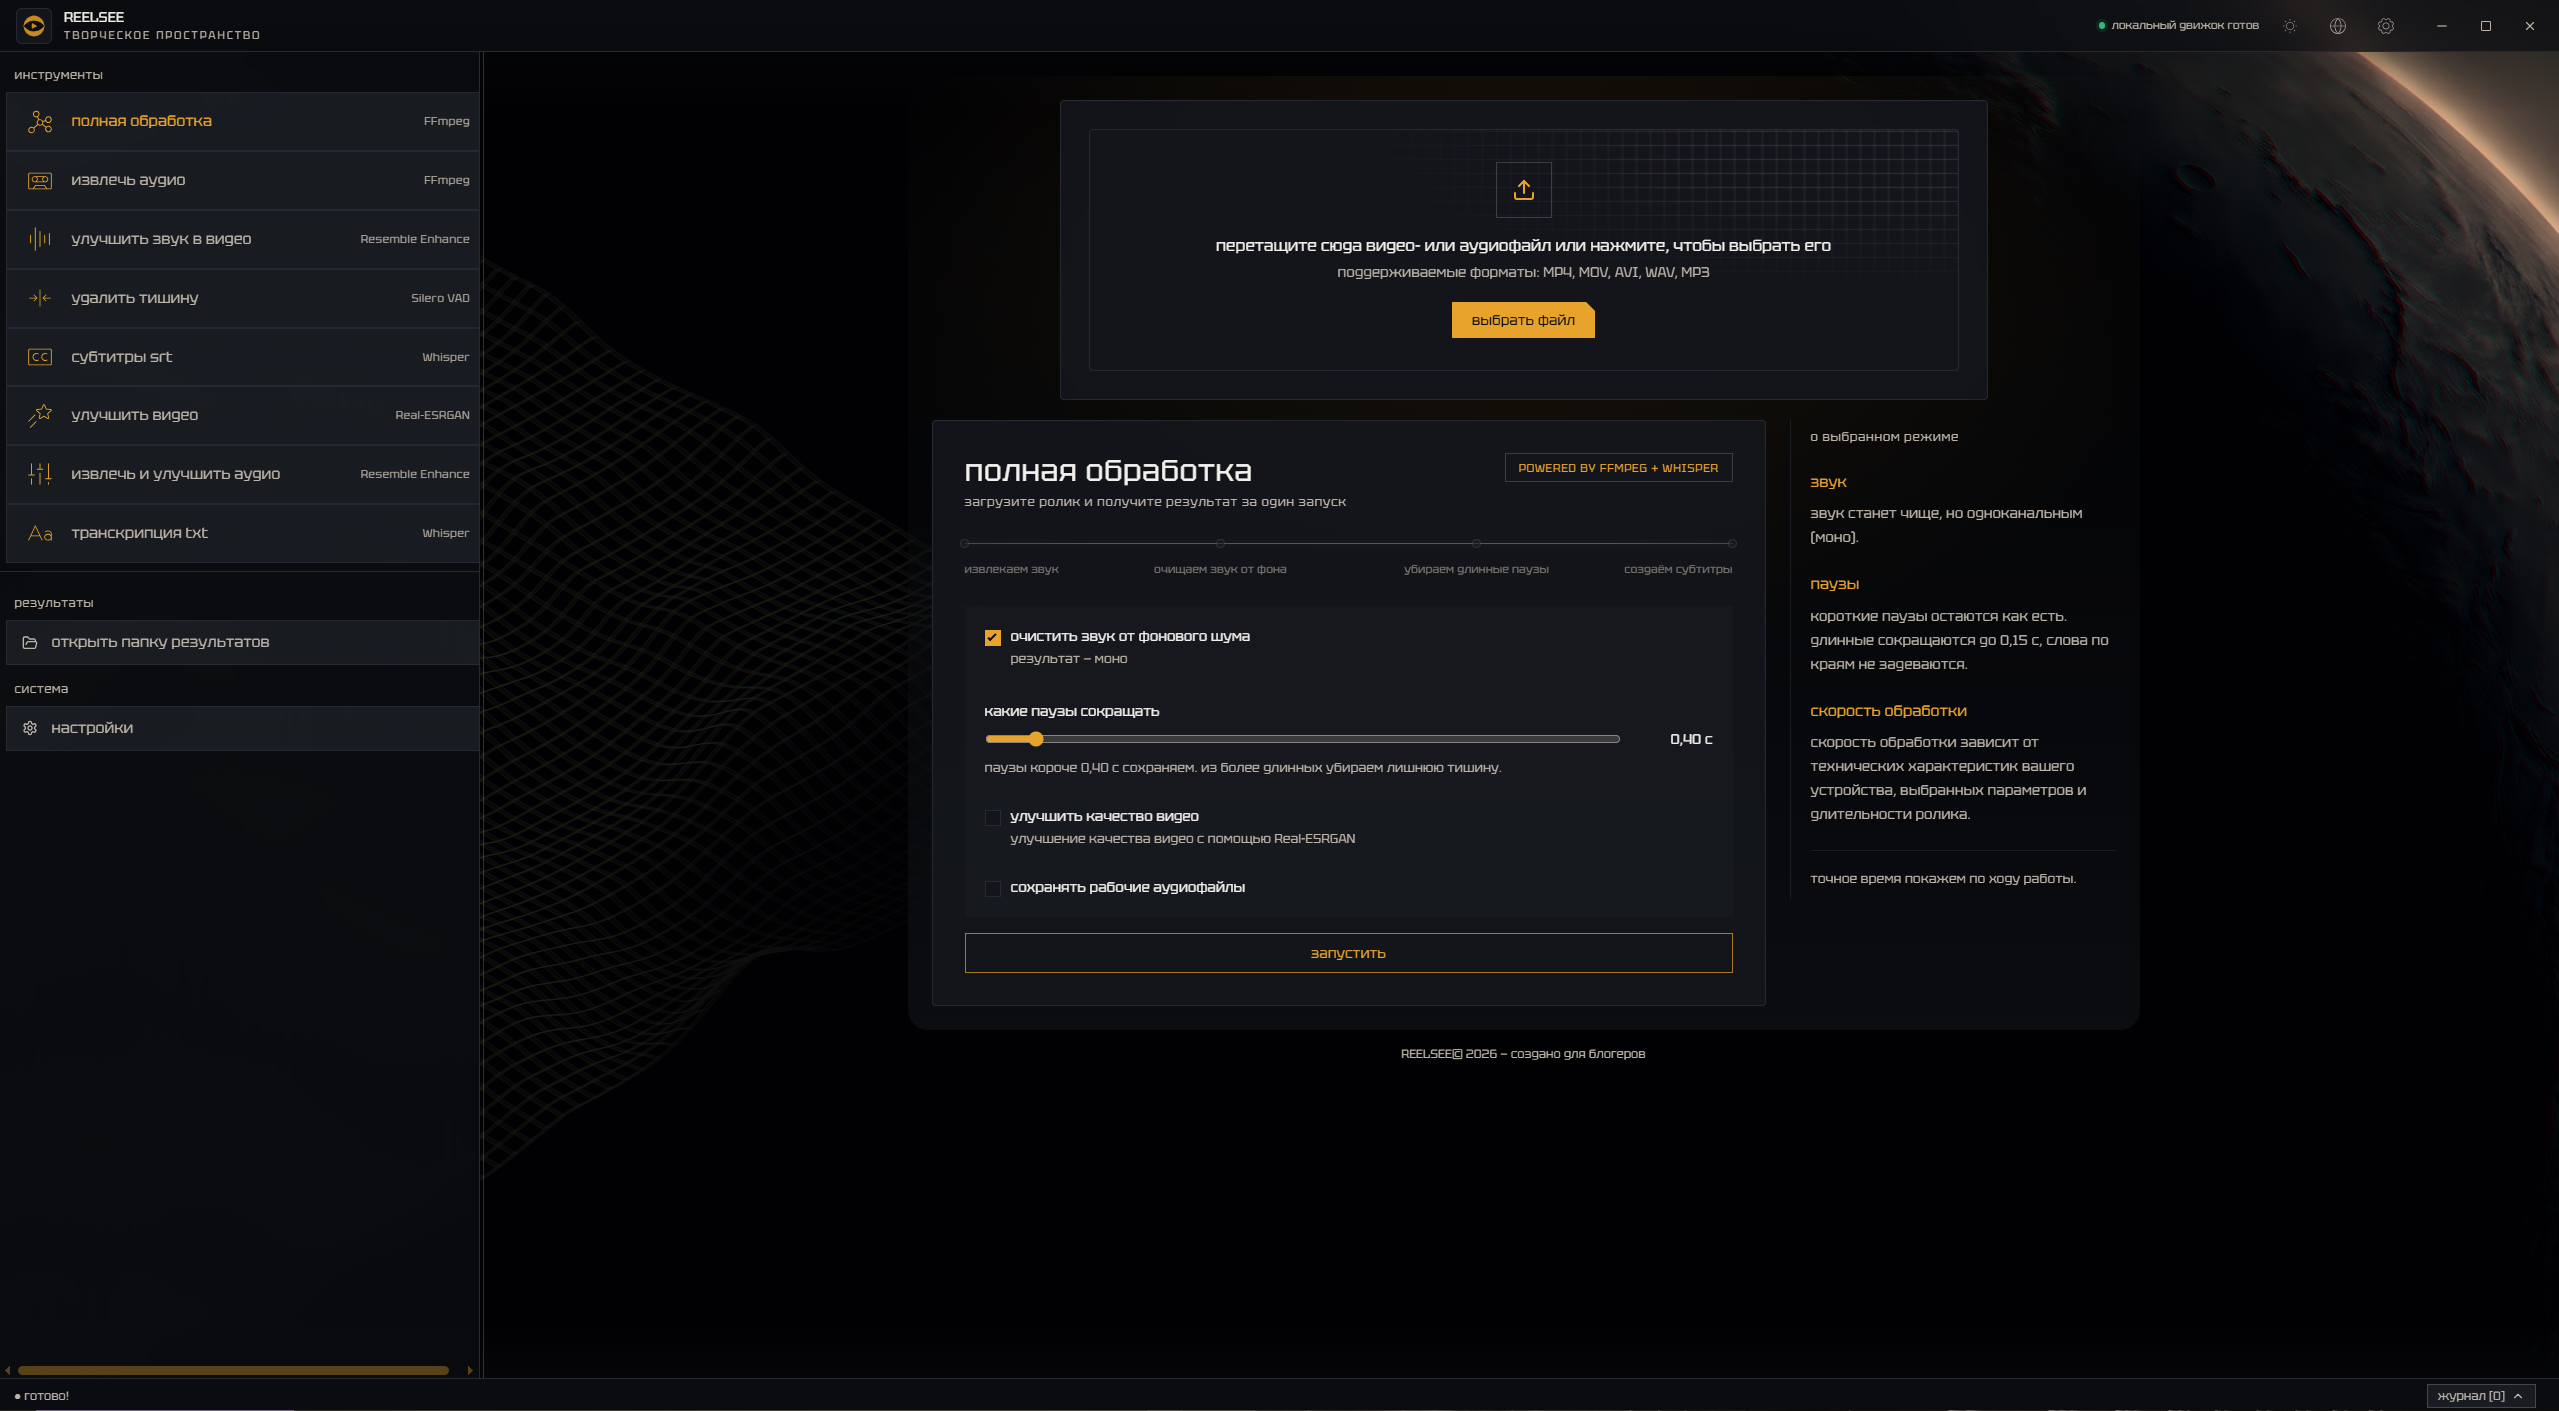
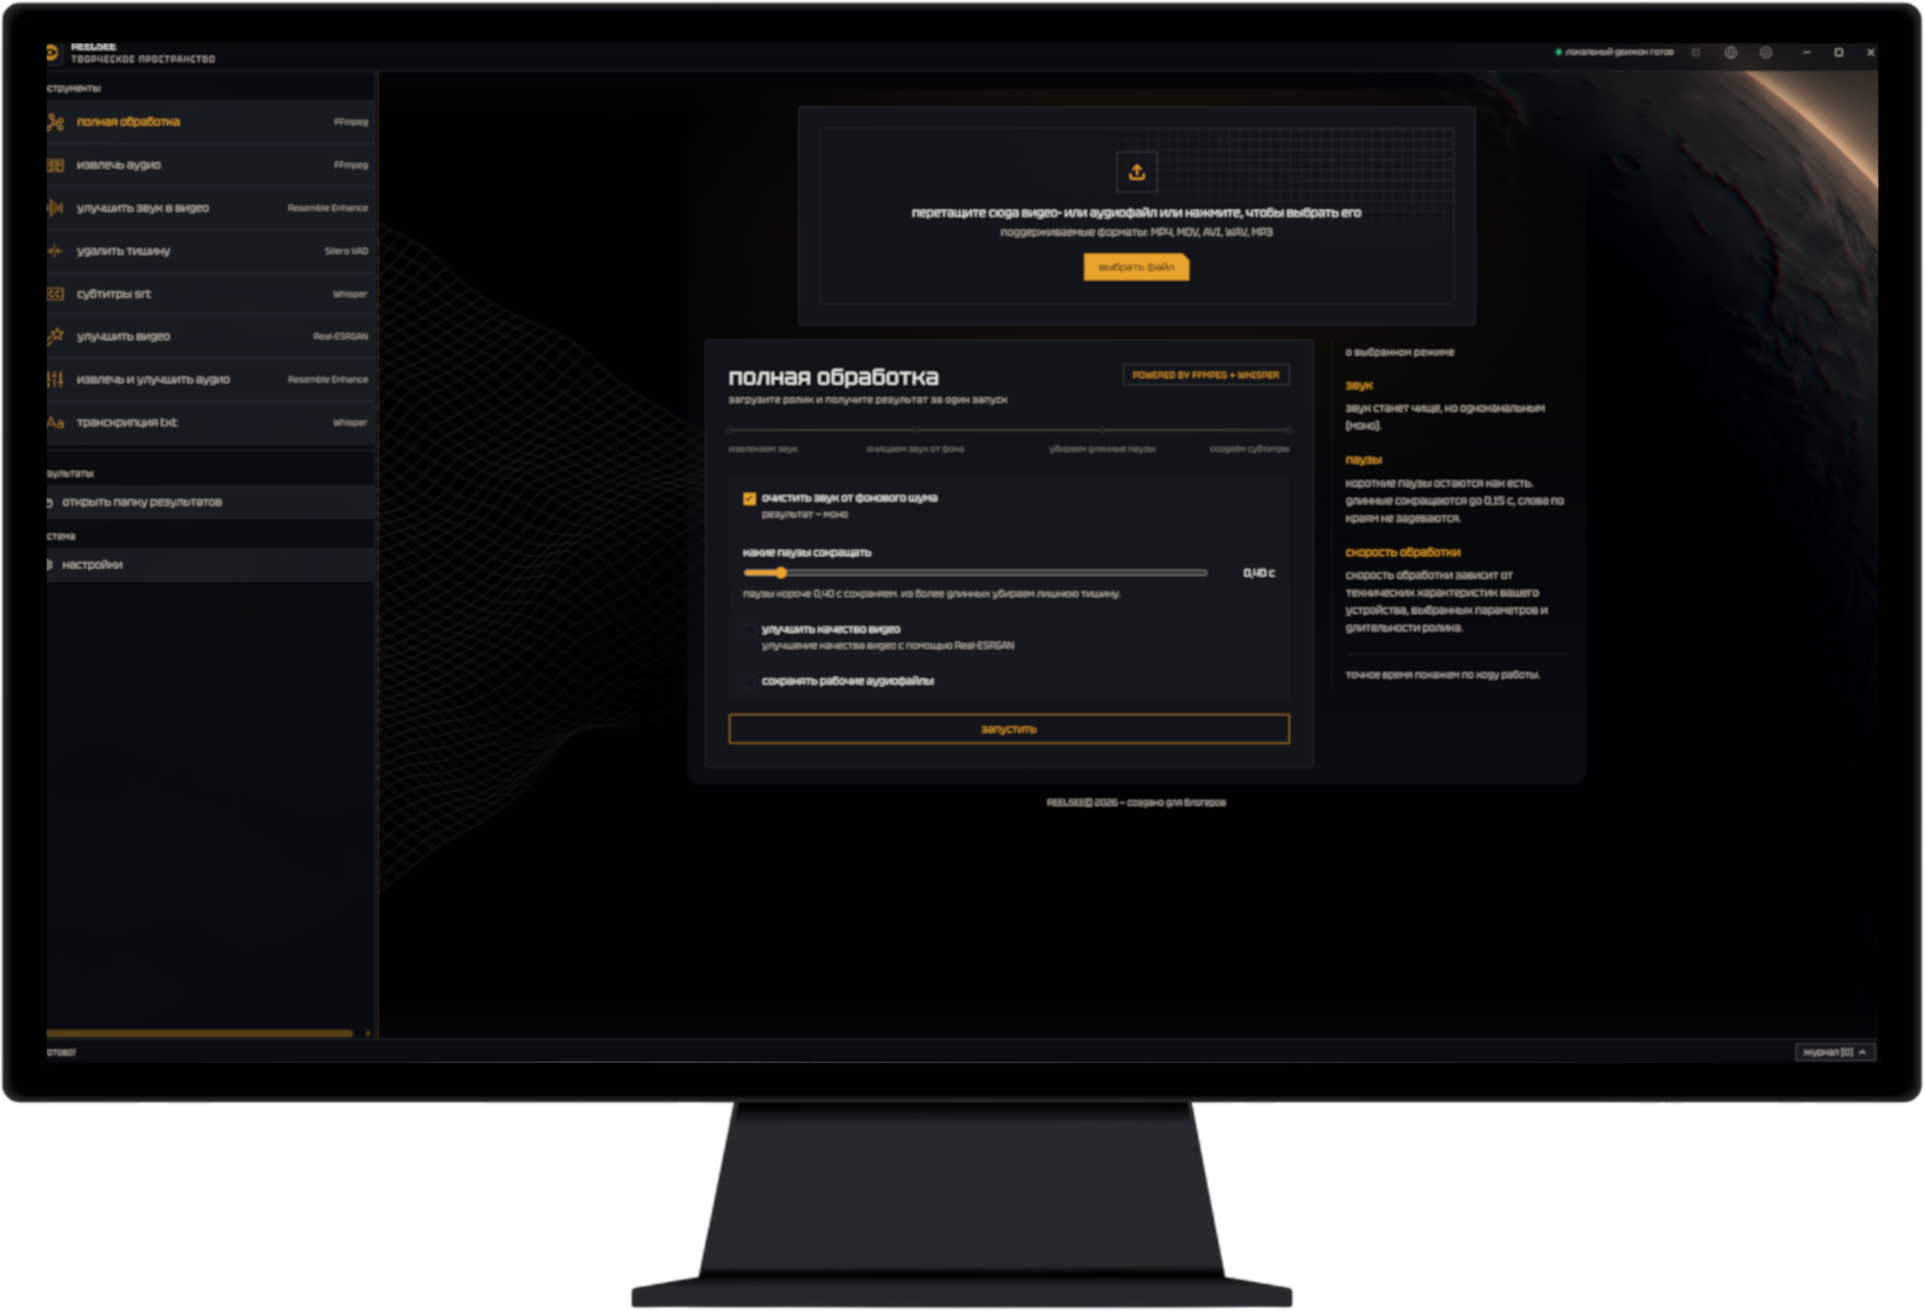
update app preview images

diff --git a/index.html b/index.html
@@ -40,7 +40,8 @@
     .mockup-window { position:relative; width:100%; border-radius:14px; background:transparent; transform:scale(1); transition:transform 1.4s cubic-bezier(.22,1,.36,1); }
     .mockup-window::before { content:none; }
     .hero-mockup:hover .mockup-window { transform:translateX(-24px) scale(1.3); }
-    .mockup-img { display:block; width:100%; height:auto; border-radius:14px; }
+    .mockup-img { display:block; width:100%; height:auto; }
+    .monitor-mockup { display:block; width:100%; height:auto; }
     .button { display:inline-flex; align-items:center; justify-content:center; min-height:48px; padding:12px 20px; border:0; background:var(--gold); color:var(--obsidian); font:500 15px/1.3 var(--font); text-decoration:none; clip-path:polygon(0 0,calc(100% - 9px) 0,100% 9px,100% 100%,0 100%); }
     .button:hover { background:#ffe7a8; }
     .button:focus-visible { clip-path:none; }
@@ -110,7 +111,7 @@
 
       <div class="hero-mockup">
         <div class="mockup-window">
-          <img src="assets/app-preview.png" alt="Интерфейс REELSEE" class="mockup-img" width="1392" height="768" loading="eager" data-i18n-src="appPreviewSrc" data-i18n-alt="appPreviewAlt">
+          <img src="assets/app-preview.png" alt="Интерфейс приложения REELSEE" class="mockup-img" width="1392" height="768" loading="eager" data-i18n-src="appPreviewSrc" data-i18n-alt="appPreviewAlt">
         </div>
       </div>
 
